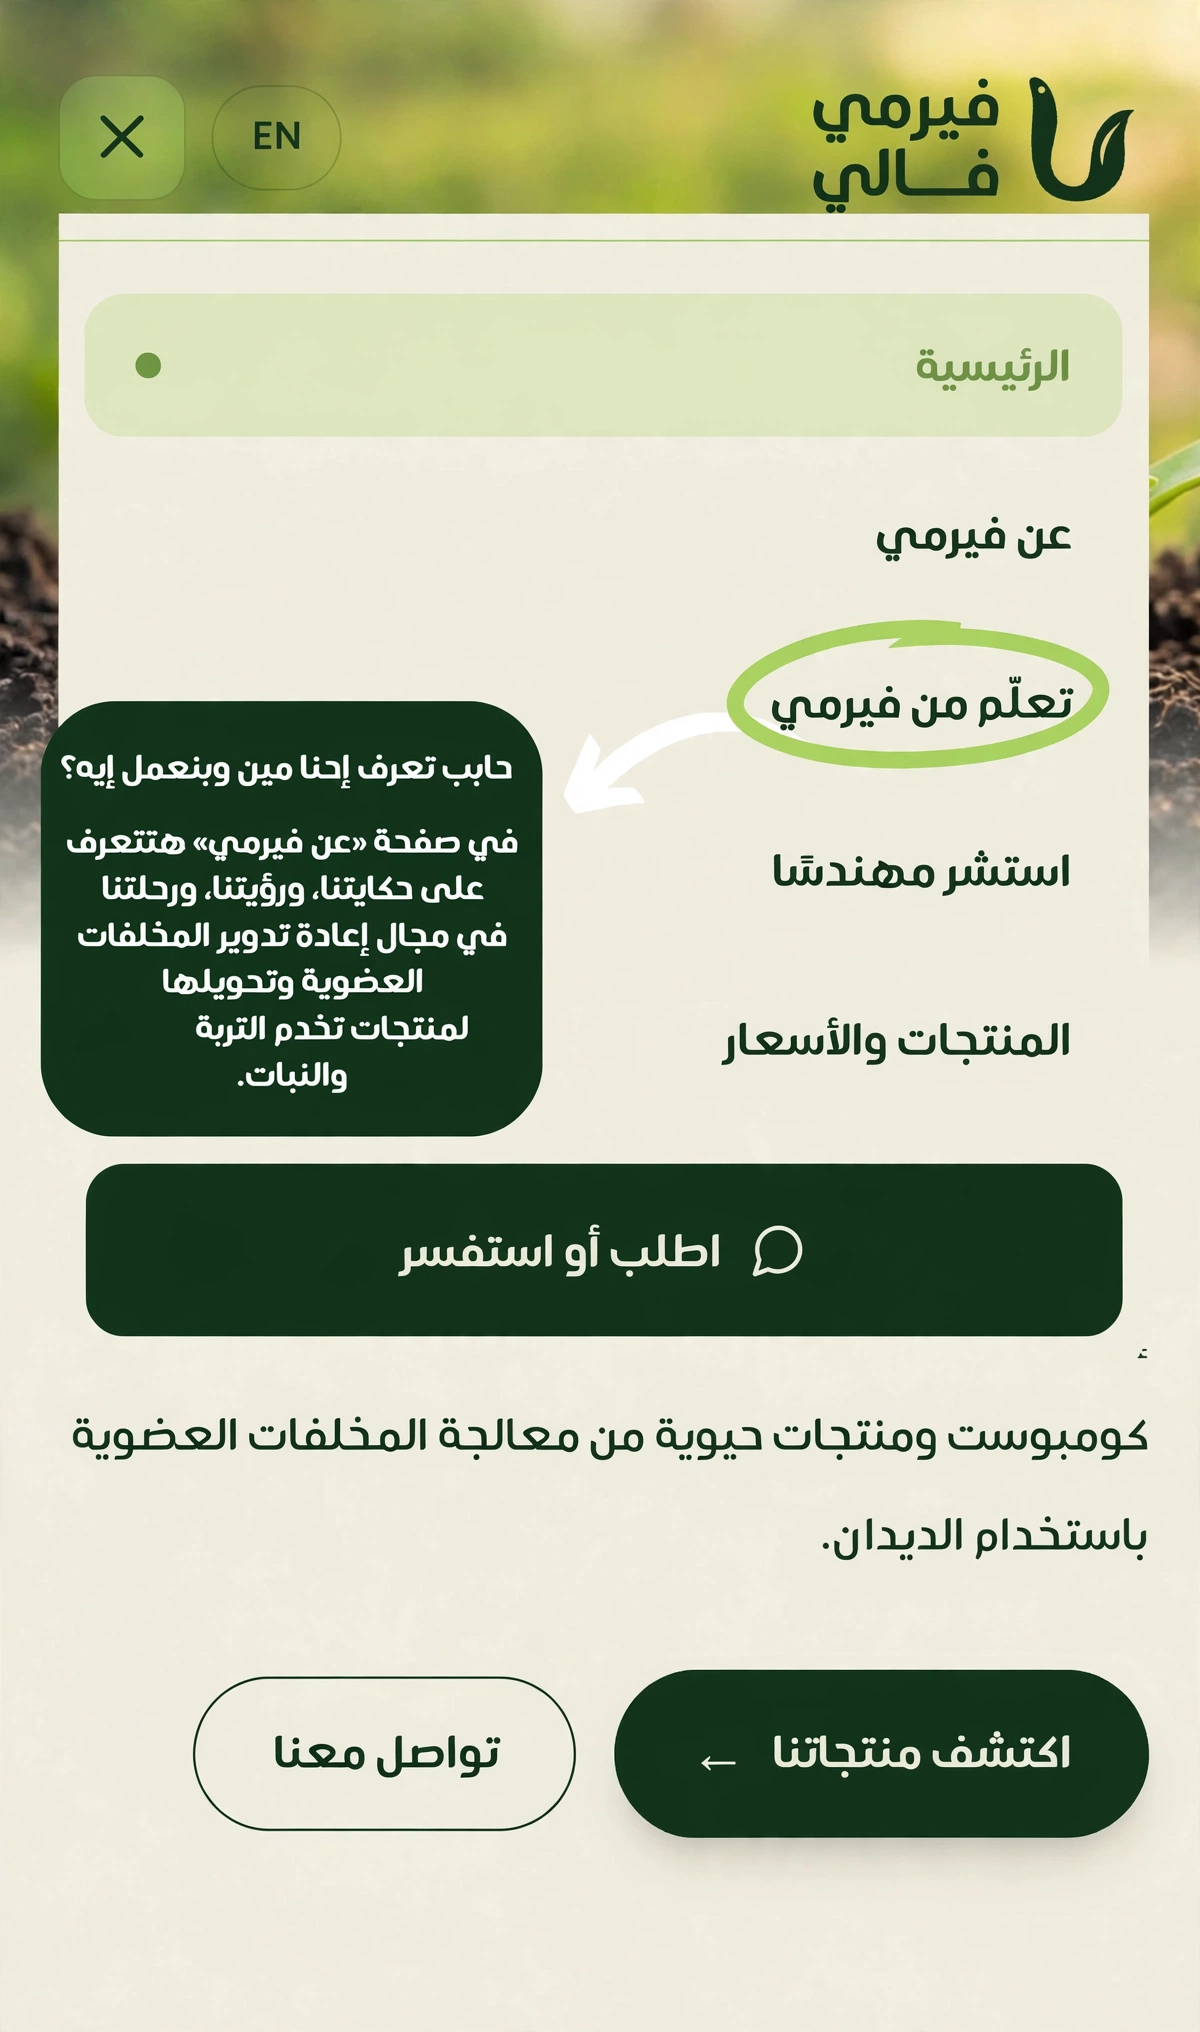
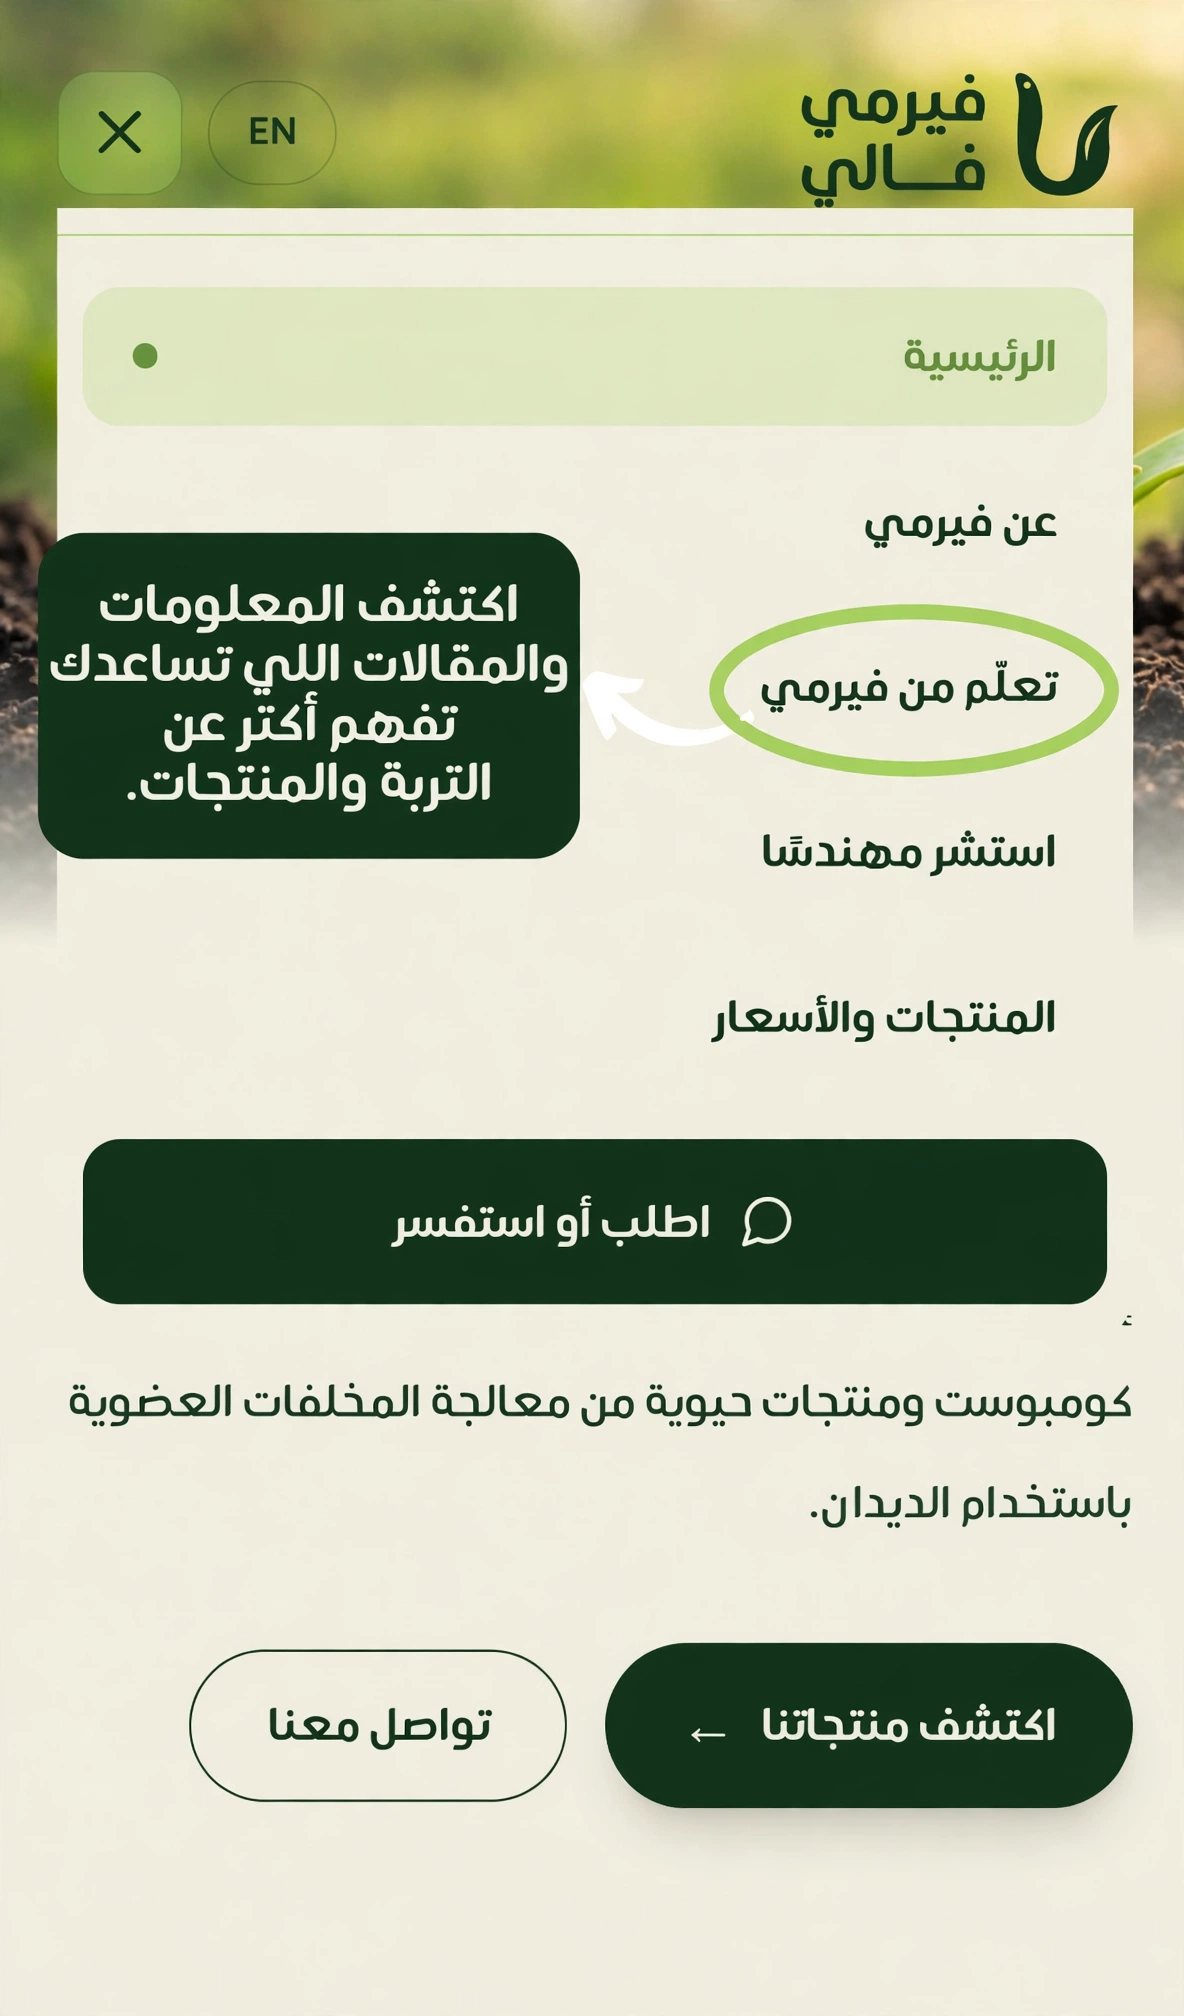
Update navbar language buttons color

diff --git a/src/component/Navber/Navber.jsx b/src/component/Navber/Navber.jsx
@@ -118,13 +118,14 @@ export default function Navber() {
           isFloating
             ? `
               top-3
-              w-[calc(100%-2rem)]
+              w-[calc(100%-1.5rem)]
               max-w-7xl
               rounded-2xl
-              border border-[#11341B]/10
               bg-[#F2EEDF]/95
-              px-4 py-3
+              px-4 py-2.5
+              shadow-[0_8px_30px_rgba(17,52,27,0.10)]
               backdrop-blur-2xl
+              sm:w-[calc(100%-2rem)]
               sm:px-6
             `
             : `
@@ -132,20 +133,11 @@ export default function Navber() {
               w-full
               max-w-none
               rounded-none
-              border-transparent
               bg-transparent
-              px-5 py-5
-              sm:px-10
+              px-5 py-4
+              sm:px-10 sm:py-5
             `
         }
-
-        after:absolute
-        after:bottom-0
-        after:left-0
-        after:h-[2px]
-        after:w-full
-        after:bg-[#A4D561]
-        after:content-['']
       `}
     >
       <div className="flex items-center justify-between gap-5">
@@ -154,7 +146,7 @@ export default function Navber() {
         <Link
           to="/"
           onClick={() => handleNavClick("/")}
-          className="flex shrink-0 items-center"
+          className="flex shrink-0 items-center rounded-lg focus-visible:outline-none focus-visible:ring-2 focus-visible:ring-[#A4D561]"
         >
           <img
             src={logo}
@@ -167,7 +159,7 @@ export default function Navber() {
         </Link>
 
         {/* Desktop Navigation */}
-        <div className="hidden items-center gap-7 xl:flex">
+        <div className="hidden items-center gap-8 xl:flex">
           {navItems.map((item) => {
             const active = isActive(item.href);
 
@@ -176,10 +168,12 @@ export default function Navber() {
                 key={item.id}
                 to={item.href}
                 onClick={() => handleNavClick(item.href)}
+                aria-current={active ? "page" : undefined}
                 className={`
                   group relative whitespace-nowrap
-                  py-2 text-sm font-bold
+                  rounded-md py-2 text-sm font-bold
                   transition-colors duration-300
+                  focus-visible:outline-none focus-visible:ring-2 focus-visible:ring-[#A4D561]
                   ${
                     active
                       ? "text-[#668F3B]"
@@ -235,11 +229,14 @@ export default function Navber() {
             className="
               inline-flex items-center gap-2
               rounded-full bg-[#11341B]
-              px-5 py-3
+              px-6 py-3
               text-sm font-bold text-[#F2EEDF]
+              shadow-[0_6px_16px_rgba(17,52,27,0.18)]
               transition-all duration-300
-              hover:-translate-y-1
+              hover:-translate-y-0.5
               hover:bg-[#254E2D]
+              active:translate-y-0
+              focus-visible:outline-none focus-visible:ring-2 focus-visible:ring-[#A4D561] focus-visible:ring-offset-2 focus-visible:ring-offset-[#F2EEDF]
             "
           >
             <svg
@@ -251,6 +248,7 @@ export default function Navber() {
               strokeWidth="1.8"
               strokeLinecap="round"
               strokeLinejoin="round"
+              aria-hidden="true"
             >
               <path d="M21 11.5a8.4 8.4 0 0 1-.9 3.8 8.5 8.5 0 0 1-7.6 4.7 8.4 8.4 0 0 1-3.8-.9L3 21l1.9-5.7a8.4 8.4 0 0 1-.9-3.8 8.5 8.5 0 0 1 4.7-7.6 8.4 8.4 0 0 1 3.8-.9h.5a8.5 8.5 0 0 1 8 8z" />
             </svg>
@@ -262,12 +260,17 @@ export default function Navber() {
           <button
             type="button"
             onClick={toggleLanguage}
+            aria-label={isArabic ? "Switch to English" : "التغيير إلى العربية"}
             className="
+              flex h-11 min-w-[46px] items-center justify-center
               rounded-full border border-[#11341B]/20
-              px-4 py-2.5
-              text-xs font-extrabold text-[#11341B]
+              bg-[#11341B]
+              px-4
+              text-xs font-extrabold text-[#F2EEDF]
               transition-all duration-300
-              hover:bg-[#A4D561]/30
+              hover:bg-[#254E2D]
+              active:scale-95
+              focus-visible:outline-none focus-visible:ring-2 focus-visible:ring-[#A4D561]
             "
           >
             {isArabic ? "EN" : "AR"}
@@ -281,11 +284,18 @@ export default function Navber() {
           <button
             type="button"
             onClick={toggleLanguage}
+            aria-label={isArabic ? "Switch to English" : "التغيير إلى العربية"}
             className="
-              rounded-full border border-[#11341B]/20
-              px-3 py-2
-              text-xs font-extrabold text-[#11341B]
-              transition-colors hover:bg-[#A4D561]/30
+              flex h-11 min-w-[48px] items-center justify-center
+              rounded-xl
+              bg-[#11341B]
+              px-3
+              text-xs font-extrabold text-[#F2EEDF]
+              shadow-[0_2px_10px_rgba(17,52,27,0.15)]
+              transition-all duration-300
+              hover:bg-[#254E2D]
+              active:scale-95
+              focus-visible:outline-none focus-visible:ring-2 focus-visible:ring-[#A4D561]
             "
           >
             {isArabic ? "EN" : "AR"}
@@ -298,33 +308,40 @@ export default function Navber() {
             aria-label={isArabic ? "فتح القائمة" : "Toggle menu"}
             aria-expanded={mobileOpen}
             className="
-              flex h-10 w-10 items-center justify-center
-              rounded-xl border border-[#11341B]/20
+              flex h-11 w-11 items-center justify-center
+              rounded-xl
+              bg-[#F2EEDF]
               text-[#11341B]
-              transition-colors hover:bg-[#A4D561]/30
+              shadow-[0_2px_10px_rgba(17,52,27,0.15)]
+              transition-all duration-300
+              hover:bg-[#E7E1CC]
+              active:scale-95
+              focus-visible:outline-none focus-visible:ring-2 focus-visible:ring-[#11341B]
             "
           >
             {mobileOpen ? (
               <svg
-                width="23"
-                height="23"
+                width="22"
+                height="22"
                 viewBox="0 0 24 24"
                 fill="none"
                 stroke="currentColor"
                 strokeWidth="2"
                 strokeLinecap="round"
+                aria-hidden="true"
               >
                 <path d="M18 6 6 18M6 6l12 12" />
               </svg>
             ) : (
               <svg
-                width="23"
-                height="23"
+                width="22"
+                height="22"
                 viewBox="0 0 24 24"
                 fill="none"
                 stroke="currentColor"
                 strokeWidth="2"
                 strokeLinecap="round"
+                aria-hidden="true"
               >
                 <path d="M4 7h16M4 12h16M4 17h16" />
               </svg>
@@ -341,20 +358,20 @@ export default function Navber() {
             animate={{ opacity: 1, height: "auto" }}
             exit={{ opacity: 0, height: 0 }}
             transition={{ duration: 0.3 }}
-            className="
-              overflow-hidden
-              rounded-b-2xl
+            className={`
+              mt-3 overflow-hidden
+              rounded-2xl
               bg-[#F2EEDF]
               xl:hidden
-            "
+              ${isFloating ? "" : "shadow-[0_12px_30px_rgba(17,52,27,0.15)]"}
+            `}
           >
             <div
               className="
-                mt-2 flex max-h-[75vh] flex-col gap-2
+                flex max-h-[75vh] flex-col gap-1.5
                 overflow-y-auto
-                border-t border-[#A4D561]/60
                 bg-[#F2EEDF]
-                px-2 pt-4 pb-3
+                p-3
               "
             >
               {navItems.map((item) => {
@@ -365,11 +382,13 @@ export default function Navber() {
                     key={item.id}
                     to={item.href}
                     onClick={() => handleNavClick(item.href)}
+                    aria-current={active ? "page" : undefined}
                     className={`
                       flex items-center justify-between
-                      rounded-xl px-4 py-3
+                      rounded-xl px-4 py-3.5
                       text-sm font-bold
                       transition-all duration-300
+                      focus-visible:outline-none focus-visible:ring-2 focus-visible:ring-[#A4D561]
                       ${
                         active
                           ? "bg-[#A4D561]/25 text-[#668F3B]"
@@ -393,11 +412,13 @@ export default function Navber() {
                 rel="noopener noreferrer"
                 onClick={() => setMobileOpen(false)}
                 className="
-                  mt-2 flex items-center justify-center gap-2
+                  mt-1.5 flex items-center justify-center gap-2
                   rounded-xl bg-[#11341B]
                   px-5 py-4
                   text-sm font-bold text-[#F2EEDF]
                   transition-colors hover:bg-[#254E2D]
+                  active:scale-[0.98]
+                  focus-visible:outline-none focus-visible:ring-2 focus-visible:ring-[#A4D561]
                 "
               >
                 <svg
@@ -409,6 +430,7 @@ export default function Navber() {
                   strokeWidth="1.8"
                   strokeLinecap="round"
                   strokeLinejoin="round"
+                  aria-hidden="true"
                 >
                   <path d="M21 11.5a8.4 8.4 0 0 1-.9 3.8 8.5 8.5 0 0 1-7.6 4.7 8.4 8.4 0 0 1-3.8-.9L3 21l1.9-5.7a8.4 8.4 0 0 1-.9-3.8 8.5 8.5 0 0 1 4.7-7.6 8.4 8.4 0 0 1 3.8-.9h.5a8.5 8.5 0 0 1 8 8z" />
                 </svg>

diff --git a/src/component/Products/Products.jsx b/src/component/Products/Products.jsx
@@ -1,4 +1,3 @@
-
 import { useEffect, useMemo, useState } from "react";
 import { AnimatePresence, motion } from "motion/react";
 import { useLanguage } from "../Context/languge";
@@ -90,9 +89,9 @@ const products = [
     descriptionEn:
       "Chlorella algae extract is a natural plant nutrient source that helps stimulate roots, improve nutrient absorption, and promote greener leaves and stronger plants.",
     comparisonAr:
-      "مستخلص طحالب طبيعي يساعد على تنشيط الجذور وتحسين نمو النبات وزيادة اخضرار الأوراق.",
+      "مستخلص طحالب الكلوريلا الطبيعي، يساعد على تنشيط الجذور وتحسين امتصاص العناصر الغذائية ودعم نمو النبات.",
     comparisonEn:
-      "A natural algae extract that helps stimulate roots, improve plant growth, and promote greener leaves.",
+      "Natural Chlorella algae extract that helps stimulate roots, improve nutrient absorption, and support plant growth.",
     purposeAr: "لدعم نمو النبات",
     purposeEn: "For plant growth support",
     category: "chlorella",
@@ -105,8 +104,20 @@ const products = [
       "https://images.unsplash.com/photo-1497250681960-ef046c08a56e?auto=format&fit=crop&w=1600&q=85"
     ),
     variants: [
-      { labelAr: "Red Wiggler - 1 كجم", labelEn: "Red Wiggler - 1 KG", amount: 1, unit: "kg", price: 800 },
-      { labelAr: "الزاحف الأفريقي - 1 كجم", labelEn: "African Nightcrawler - 1 KG", amount: 1, unit: "kg", price: 1200 },
+      {
+        labelAr: "عبوة 1 لتر",
+        labelEn: "1 Liter Bottle",
+        amount: 1,
+        unit: "liter",
+        price: 85,
+      },
+      {
+        labelAr: "عبوة 5 لتر",
+        labelEn: "5 Liter Bottle",
+        amount: 5,
+        unit: "liter",
+        price: 300,
+      },
     ],
   },
   {
@@ -135,7 +146,7 @@ const products = [
 const filters = [
   { id: "all", ar: "كل المنتجات", en: "All Products" },
   { id: "soil", ar: "تحسين التربة", en: "Soil Improvement" },
-  { id: "liquid", ar: "منتجات سائلة", en: "Liquid Products" },
+  { id: "liquid", ar: "شي فيرمي", en: "Vermi Tea" },
   { id: "chlorella", ar: "كلوريلا", en: "Chlorella" },
   { id: "microbes", ar: "الكائنات الدقيقة", en: "Microorganisms" },
 ];
